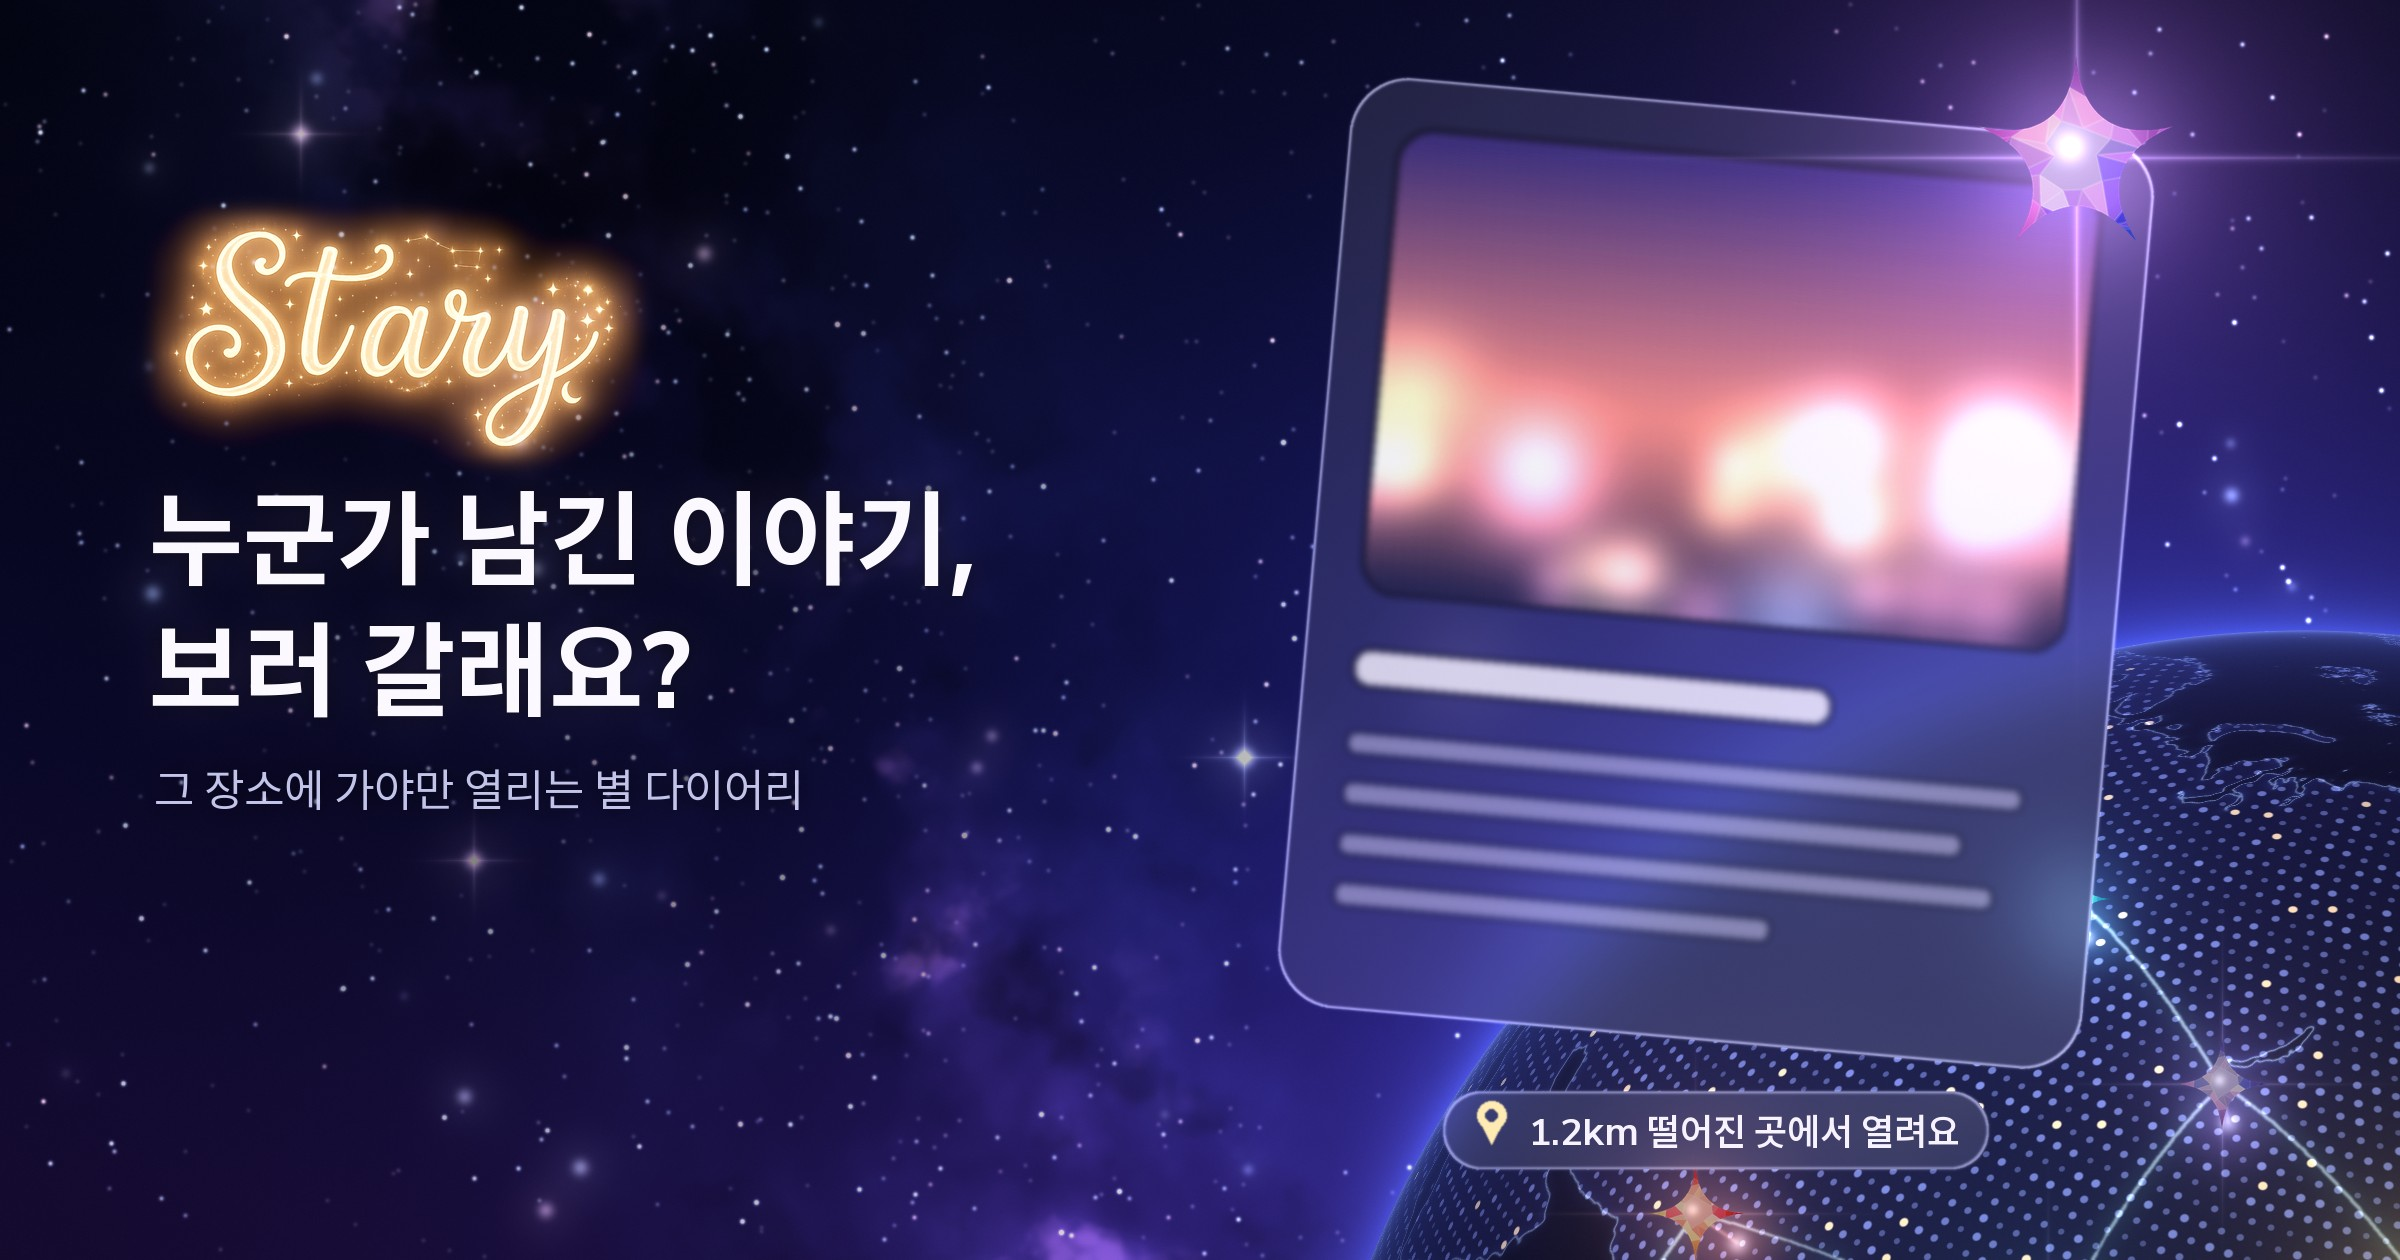
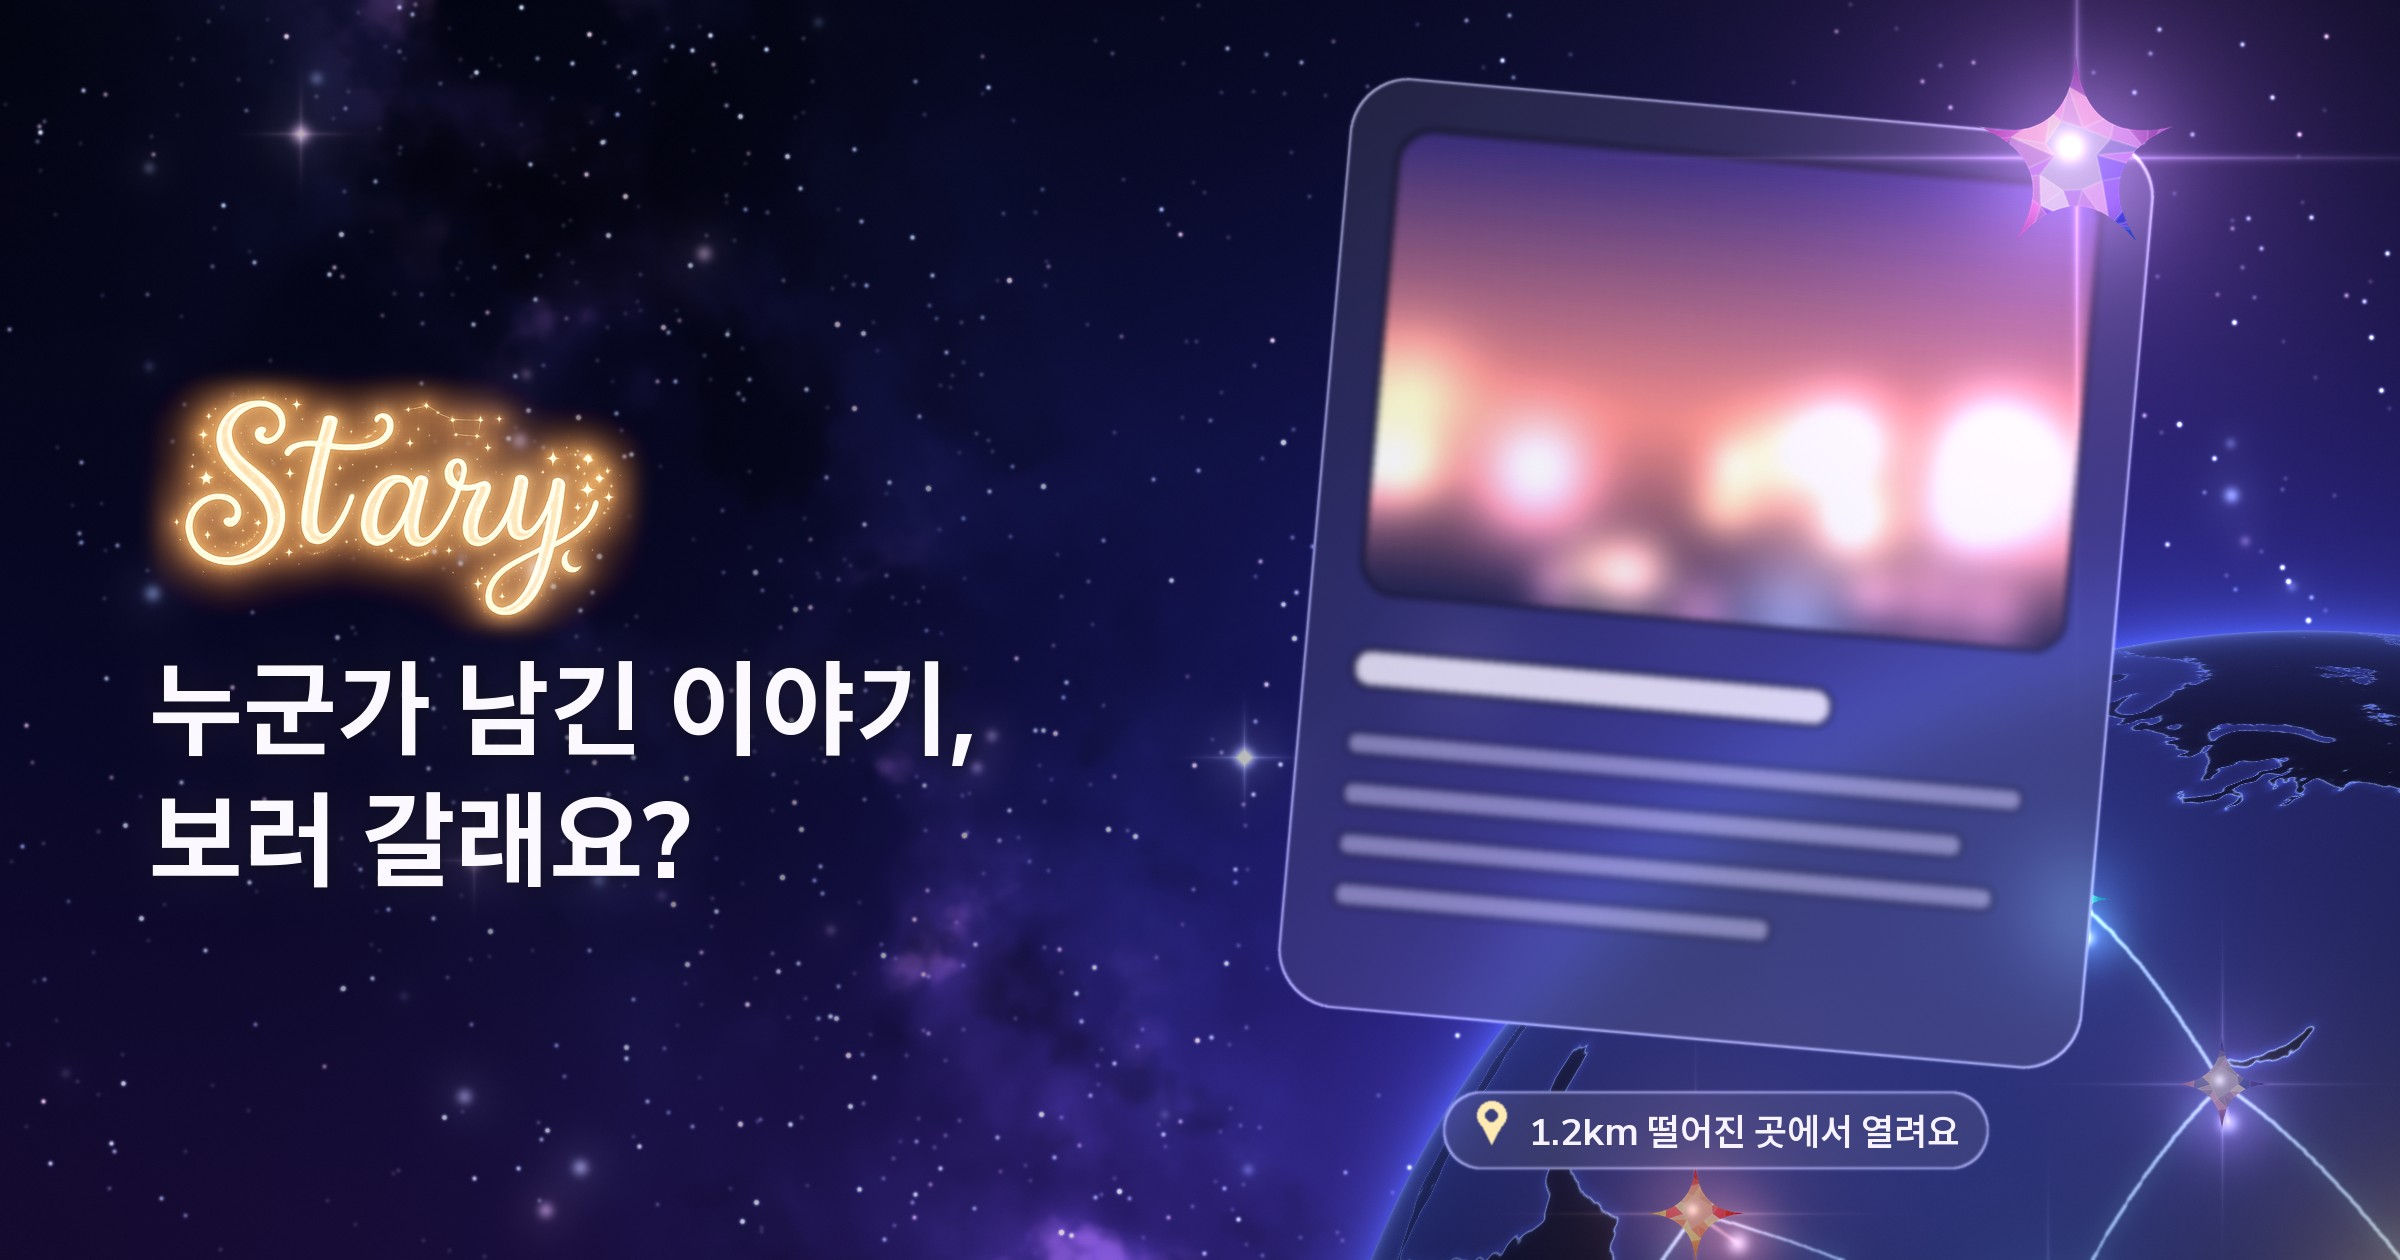
feat(web): 링크 미리보기 C 다듬기 — 부제 삭제 · 로고/제목 세로 가운데 · 지구 육지를 점 대신 이어진 면으로

Changed region(s): [[0.0625, 0.1548, 0.4062, 0.7119], [0.5625, 0.5262, 1.0, 1.0], [0.9688, 0.5262, 1.0, 0.5571]]

diff --git a/web/index.html b/web/index.html
@@ -19,7 +19,7 @@
 <meta property="og:image:type" content="image/jpeg">
 <meta property="og:image:width" content="2400">
 <meta property="og:image:height" content="1260">
-<meta property="og:image:alt" content="누군가 남긴 이야기, 보러 갈래요? — 그 장소에 가야만 열리는 별 다이어리 Stary">
+<meta property="og:image:alt" content="Stary — 누군가 남긴 이야기, 보러 갈래요?">
 <meta name="twitter:card" content="summary_large_image">
 <meta name="twitter:title" content="Stary — 누군가 밤하늘에 별을 남겼어요">
 <meta name="twitter:description" content="이 별은 그 장소에 가야 열려요. 지도 위 밤하늘에 남기는 위치 다이어리, Stary.">

diff --git a/tools/og/make_og.py b/tools/og/make_og.py
@@ -30,6 +30,85 @@ W, H = 2400, 1260
 S = H / 1000.0
 
 
+# ── 이어진 육지 지구(점 격자 대신 면) — SA.render 가 이걸 쓰게 바꿔 끼운다 ──────────────
+def render_globe_solid(img, cx, cy, R, rng):
+    """유리 지구를 img 에 그린다(안쪽은 덮어쓰고, 대기 빛은 더한다)."""
+    h, w = img.shape[:2]
+    tex = SA.land_textures()
+    th, tw = tex["land"].shape
+    pad = int(R * 0.9)
+    x0, x1 = max(0, int(cx - R) - pad), min(w, int(cx + R) + pad)
+    y0, y1 = max(0, int(cy - R) - pad), min(h, int(cy + R) + pad)
+    yy, xx = np.mgrid[y0:y1, x0:x1].astype(F32)
+    X, Y = (xx - cx) / R, -(yy - cy) / R
+    rr = np.hypot(X, Y)
+    inside = rr < 1.0
+    Z = np.sqrt(np.clip(1 - rr * rr, 0, 1))
+
+    # 테두리 빛 색 — 오른쪽 아래는 석양빛(분홍·주황), 왼쪽 위는 푸른 빛(앱 아이콘 톤)
+    ang = (X * 0.74 - Y * 0.67) / np.maximum(rr, 1e-4)
+    tw_ = SA.smooth(-0.55, 0.85, ang)[..., None]
+    rim_cool = np.array([0.30, 0.48, 1.00], F32)
+    rim_warm = np.array([1.00, 0.46, 0.72], F32)
+    rim = rim_cool * (1 - tw_) + rim_warm * tw_
+    rim_gain = (0.55 + 0.75 * tw_[..., 0])
+
+    # 화면 → 위경도
+    r = math.radians(-SA.ROLL_DEG)
+    xv, yv = X * math.cos(r) - Y * math.sin(r), X * math.sin(r) + Y * math.cos(r)
+    la0 = math.radians(SA.VIEW_LAT)
+    lat = np.arcsin(np.clip(yv * math.cos(la0) + Z * math.sin(la0), -1, 1))
+    lon = math.radians(SA.VIEW_LON) + np.arctan2(xv, Z * math.cos(la0) - yv * math.sin(la0))
+    latd, lond = np.degrees(lat), (np.degrees(lon) + 180) % 360 - 180
+
+    def sample(name, la_d, lo_d):
+        u = (lo_d + 180) / 360 * tw - 0.5
+        v = (90 - la_d) / 180 * th - 0.5
+        return ndi.map_coordinates(tex[name], [v, u], order=1, mode="grid-wrap")
+
+    land = sample("land", latd, lond)
+    line = sample("line", latd, lond)
+    glow = sample("glow", latd, lond)
+
+    L = np.array([-0.42, 0.52, 0.74], F32)
+    L /= np.linalg.norm(L)
+    shade = np.clip(X * L[0] + Y * L[1] + Z * L[2], 0, 1)
+    limb = Z ** 0.55
+
+    # 바다 = 깊고 어두운 유리 / 육지 = 살짝 밝은 유리
+    col = np.empty(X.shape + (3,), F32)
+    depth = (0.35 + 0.65 * shade)[..., None]
+    col[:] = np.array([0.026, 0.032, 0.118], F32) * depth + np.array([0.040, 0.016, 0.085], F32) * (1 - Z)[..., None]
+    landm = SA.smooth(0.42, 0.58, land)
+    col += landm[..., None] * np.array([0.050, 0.058, 0.160], F32) * (0.4 + 0.6 * shade)[..., None] * limb[..., None]
+
+    # 육지 = 점이 아니라 **이어진 면**(OG 용, 2026-10-19) — 빛을 받는 쪽이 밝은 남보라 유리 + 해안 안쪽으로 은은한 번짐
+    fill = (0.30 + 0.70 * shade) * limb
+    col += (landm * fill)[..., None] * np.array([0.085, 0.100, 0.270], F32)
+    col += (landm * glow * fill * 0.55)[..., None] * np.array([0.22, 0.30, 0.80], F32)
+    # 해안선 — 유리 모서리처럼 빛나는 선 + 번짐
+    col += (line * (0.25 + 0.75 * shade) * limb * 0.80)[..., None] * np.array([0.74, 0.90, 1.00], F32)
+    col += (glow * limb * 0.38)[..., None] * np.array([0.34, 0.46, 1.00], F32)
+
+    # 유리 광택(왼쪽 위 넓은 반사) + 프레넬 테두리 빛
+    sheen = np.exp(-((X + 0.46) ** 2 + (Y - 0.50) ** 2) / 0.085) * 0.085
+    col += sheen[..., None] * np.array([0.62, 0.74, 1.00], F32)
+    fres = (1 - Z) ** 3.2
+    col += (fres * 0.95 * rim_gain)[..., None] * rim
+    col += (((1 - Z) ** 14) * 0.55)[..., None] * (rim * 0.5 + 0.5)
+
+    # 합성 — 원 안쪽은 덮어쓰기(가장자리 안티앨리어싱), 바깥은 대기 빛을 더한다
+    alpha = np.clip((1 - rr) * R + 0.5, 0, 1)[..., None]
+    sub = img[y0:y1, x0:x1]
+    dd = np.clip(rr - 1, 0, None)
+    halo = (np.exp(-dd / 0.022) * 0.62 + np.exp(-dd / 0.085) * 0.30 + np.exp(-dd / 0.30) * 0.10) * rim_gain
+    sub += (halo * (1 - alpha[..., 0]))[..., None] * rim
+    sub[:] = sub * (1 - alpha) + col * alpha
+
+
+SA.render_globe = render_globe_solid
+
+
 # ── 공용: 글자·칩·로고 ────────────────────────────────────────────────────────
 def text_mask(lines, size, weight, x, y, anchor="la", spacing=1.24, align="left"):
     """여러 줄 글자를 L 마스크(0..1)로. anchor 는 첫 줄 기준."""
@@ -271,12 +350,15 @@ def concept_card():
     # 카드 위 크리스탈 별(핀처럼) + 거리 칩
     hero_star(img, x1 - 34 * S, y0 + 40 * S, 170 * S, typ=1, col=16)
     chip(img, cx, y1 + 72 * S, "1.2km 떨어진 곳에서 열려요", size=30, icon="pin")
-    # 왼쪽 문구
-    lh = logo(img, W * 0.055, H * 0.15, W * 0.22)
-    m, ty = text_mask(["누군가 남긴 이야기,", "보러 갈래요?"], 84 * S, 700, W * 0.062, H * 0.15 + lh * 0.95)
+    # 왼쪽 문구 — 로고 + 제목 두 줄을 한 묶음으로 세로 가운데에(부제 없음)
+    lw = W * 0.22
+    lh0 = lw * 790 / 1410                          # logo() 가 쓰는 원본 크롭(1410x790) 비율
+    hs = 84 * S
+    block = lh0 * 0.95 + hs * 1.24 + hs           # 로고 + 1줄 행간 + 2줄 글자 높이
+    top = (H - block) / 2 - 10 * S
+    lh = logo(img, W * 0.055, top, lw)
+    m, _ = text_mask(["누군가 남긴 이야기,", "보러 갈래요?"], hs, 700, W * 0.062, top + lh * 0.95)
     put_text(img, m)
-    m2, _ = text_mask(["그 장소에 가야만 열리는 별 다이어리"], 36 * S, 400, W * 0.064, ty + 22 * S)
-    put_text(img, m2, color=(0.84, 0.85, 1.0), glow=0, alpha=0.9)
     return to_image(img)
 
 
